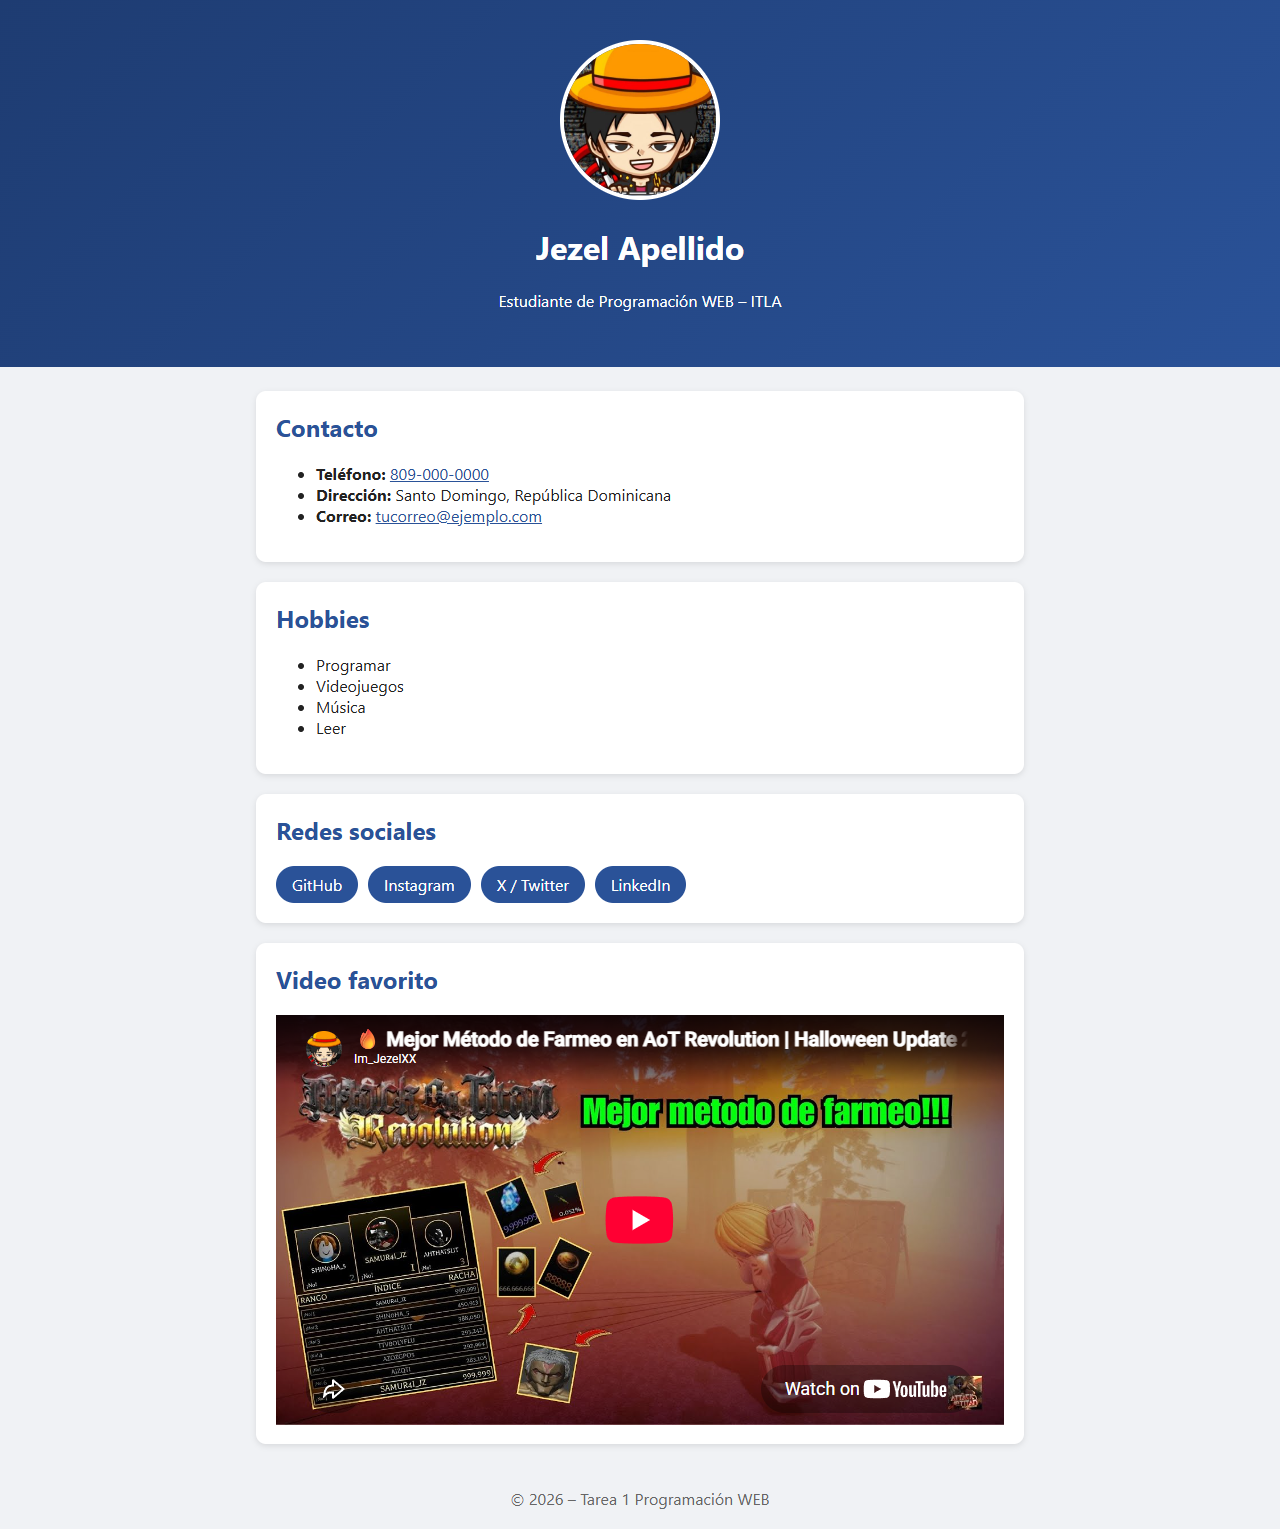
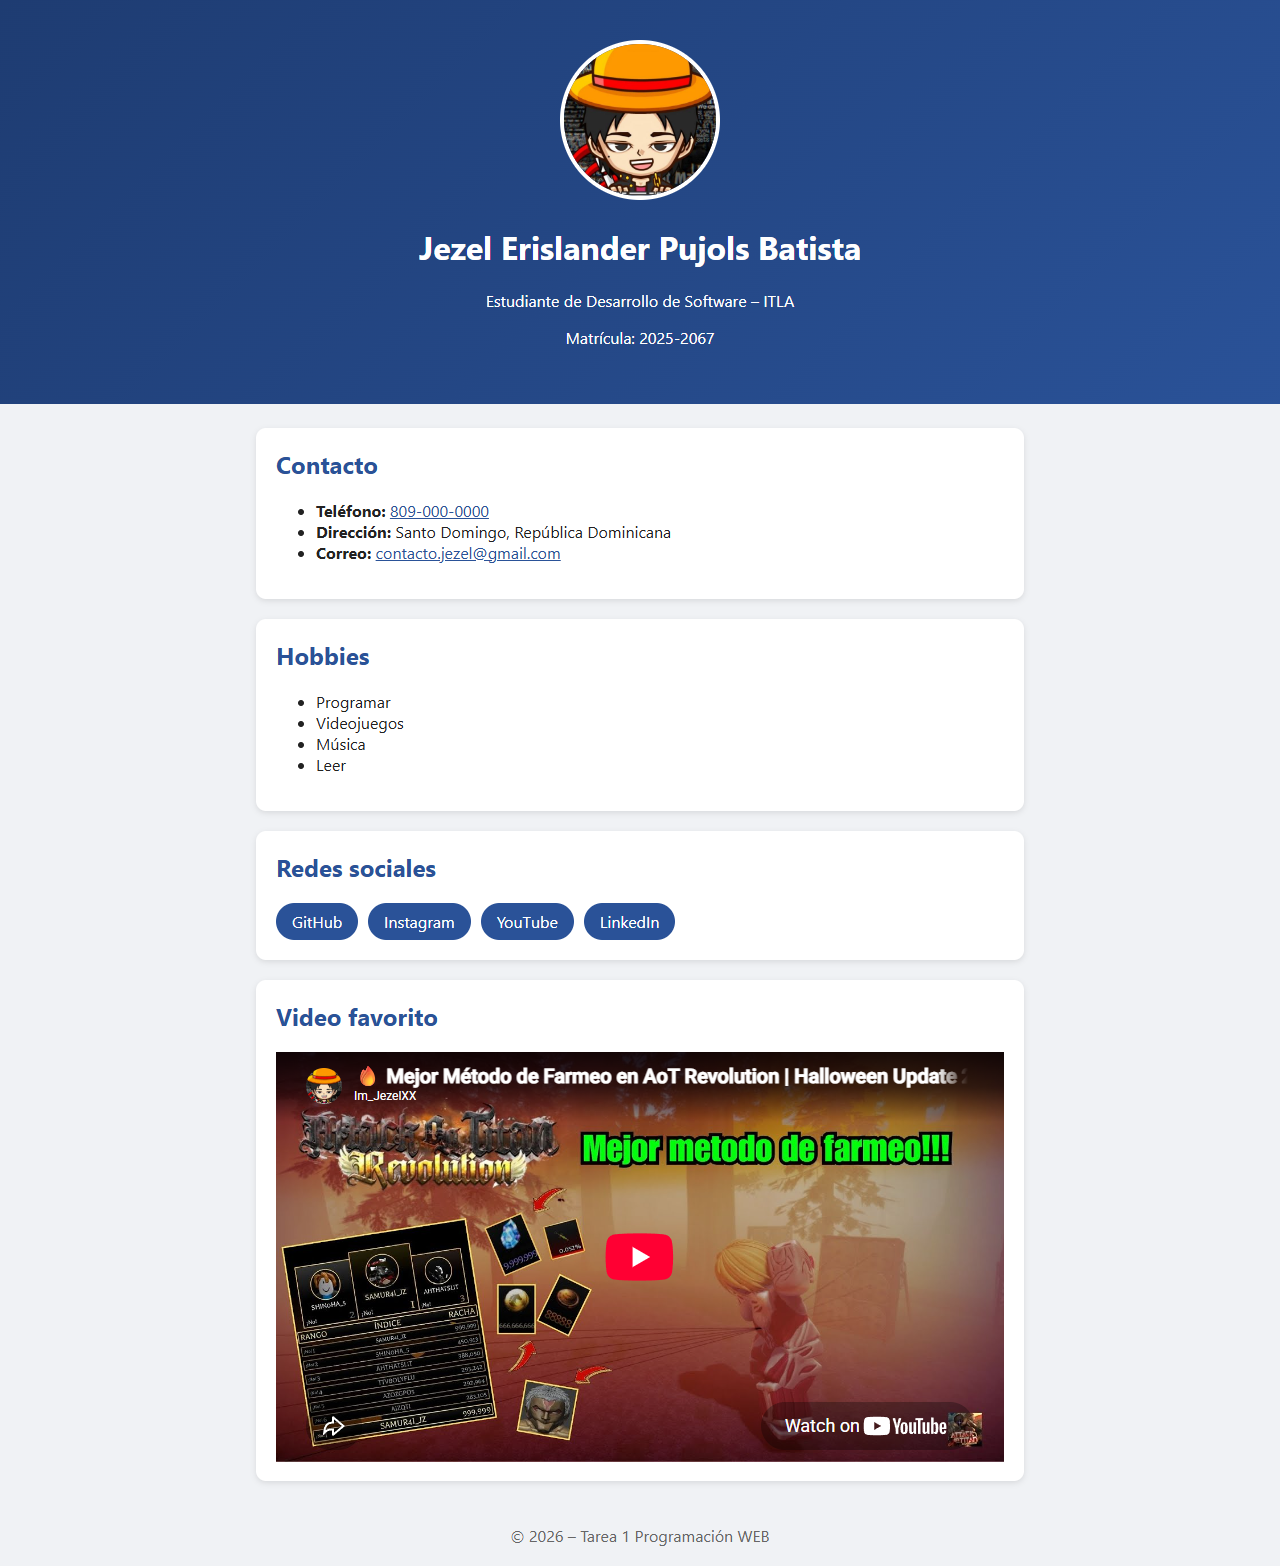
feat: agregar datos personales y redes sociales

Changed region(s): [[0.2188, 0.5226, 0.7812, 0.9529], [0.0, 0.0307, 1.0, 0.3689], [0.2188, 0.3996, 0.3125, 0.4918]]

diff --git a/index.html b/index.html
@@ -3,14 +3,15 @@
 <head>
   <meta charset="UTF-8">
   <meta name="viewport" content="width=device-width, initial-scale=1.0">
-  <title>Página Personal</title>
+  <title>Jezel Pujols – Página Personal</title>
   <link rel="stylesheet" href="style.css">
 </head>
 <body>
   <header>
-    <img src="https://github.com/ImJezel.png" alt="Mi foto" class="foto">
-    <h1><span id="nombre">Jezel</span> <span id="apellido">Apellido</span></h1>
-    <p>Estudiante de Programación WEB – ITLA</p>
+    <img src="https://github.com/ImJezel.png" alt="Foto de Jezel Pujols" class="foto">
+    <h1><span id="nombre">Jezel Erislander</span> <span id="apellido">Pujols Batista</span></h1>
+    <p>Estudiante de Desarrollo de Software – ITLA</p>
+    <p>Matrícula: 2025-2067</p>
   </header>
 
   <main>
@@ -19,7 +20,7 @@
       <ul>
         <li><strong>Teléfono:</strong> <a href="tel:+18090000000">809-000-0000</a></li>
         <li><strong>Dirección:</strong> Santo Domingo, República Dominicana</li>
-        <li><strong>Correo:</strong> <a href="mailto:tucorreo@ejemplo.com">tucorreo@ejemplo.com</a></li>
+        <li><strong>Correo:</strong> <a href="mailto:contacto.jezel@gmail.com">contacto.jezel@gmail.com</a></li>
       </ul>
     </section>
 
@@ -37,9 +38,9 @@
       <h2>Redes sociales</h2>
       <nav class="redes">
         <a href="https://github.com/ImJezel" target="_blank">GitHub</a>
-        <a href="https://instagram.com/" target="_blank">Instagram</a>
-        <a href="https://x.com/" target="_blank">X / Twitter</a>
-        <a href="https://linkedin.com/" target="_blank">LinkedIn</a>
+        <a href="https://www.instagram.com/im_jezelxx/" target="_blank">Instagram</a>
+        <a href="https://www.youtube.com/@Im_JezelXX" target="_blank">YouTube</a>
+        <a href="https://www.linkedin.com/in/jezel-pujols-4848bb1a1/" target="_blank">LinkedIn</a>
       </nav>
     </section>
 

diff --git a/README.md b/README.md
@@ -2,6 +2,8 @@
 
 Programación WEB – ITLA (2026-C-003)
 
+**Estudiante:** Jezel Erislander Pujols Batista · **Matrícula:** 2025-2067 · **Carrera:** Desarrollo de Software
+
 Página personal hecha con HTML5 y CSS3: foto, nombre, apellido, teléfono, dirección, correo, hobbies, redes sociales y un video de YouTube.
 
 Para verla, abre `index.html` en el navegador.
